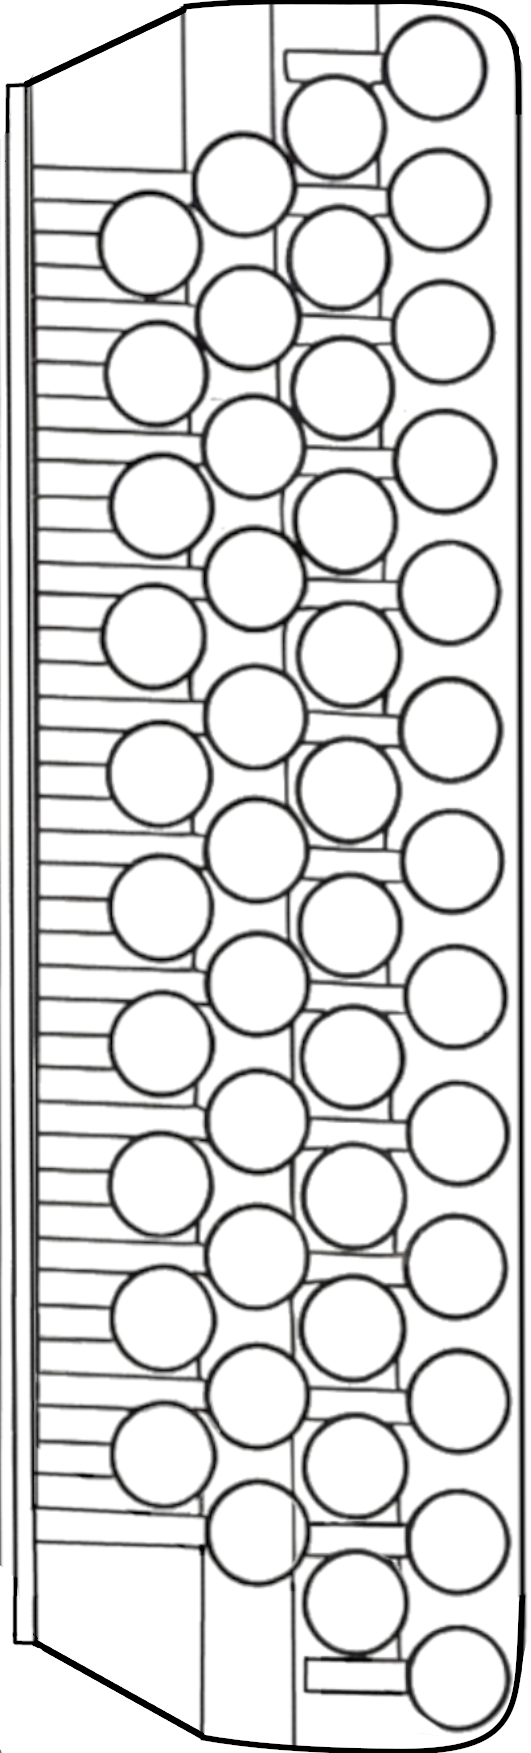
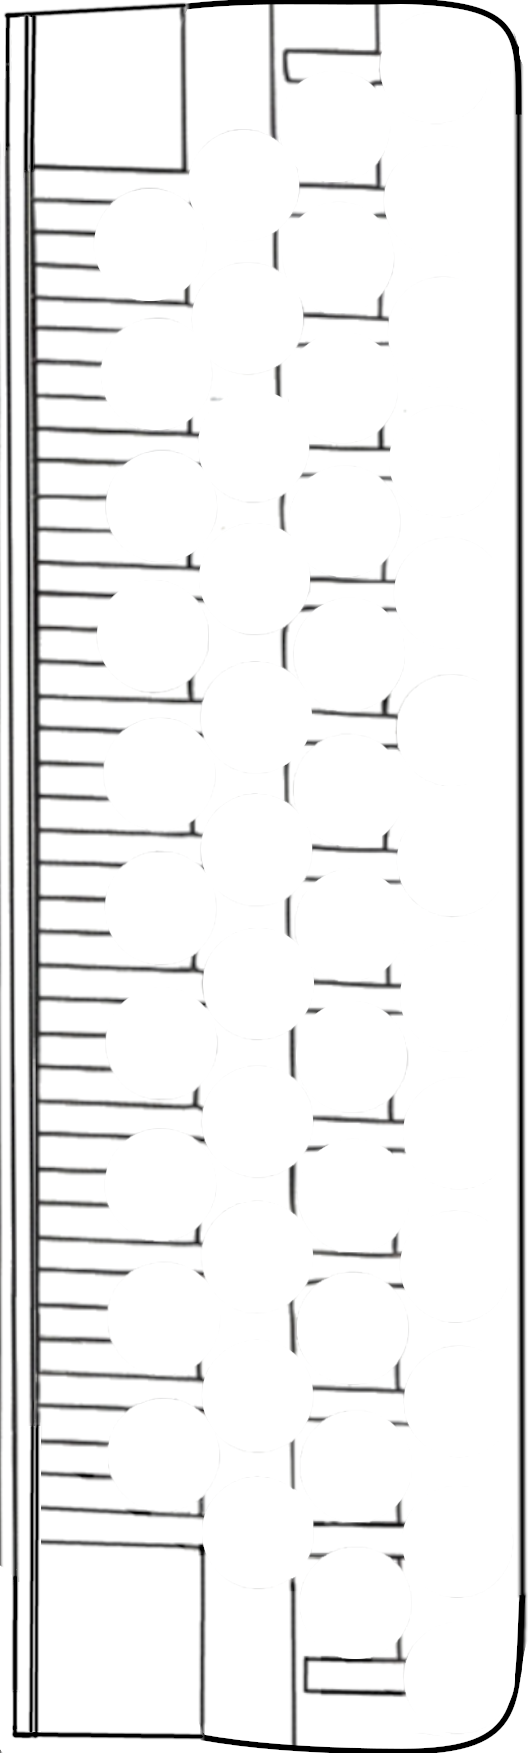
perf(ui): optimize scrubbing performance with note caching and improve visual styling
- Add scrubbing note cache to eliminate redundant fingering calculations
- Implement dynamic shadow system for Gleichton and active button states
- Simplify ring effects to background fills for better performance
- Improve fingering override propagation with contextual matching
- Update z-index hierarchy for better visual layering
- Add workspace task automation configuration

diff --git a/components/AccordionButton.tsx b/components/AccordionButton.tsx
@@ -67,27 +67,22 @@ const AccordionButtonBase: React.FC<Props> = ({
   const pullData = parseLabel(pullNote.label);
 
   // --- Styles ---
-  const containerStyle = "rounded-full overflow-hidden shadow-sm transition-all duration-75 select-none absolute touch-none flex flex-col aspect-square pointer-events-auto";
+  const containerStyle = "rounded-full overflow-hidden transition-all duration-75 select-none absolute touch-none flex flex-col aspect-square pointer-events-auto";
   const cursorClass = isEditing ? "cursor-move" : "cursor-pointer";
   
-  // Gleichton: Double border effect
-  const borderClass = (isEditing && isSelected) 
-    ? "ring-2 ring-blue-500 z-30" 
-    : isGleichton
-      ? "border-4 border-double border-[#b0a890] hover:border-[#8c8272]" // Double border for Gleichton
-      : "border border-[#b0a890] hover:border-[#8c8272]";
+  // Thicker, darker border for all buttons
+  const borderClass = (isEditing && isSelected)
+    ? "ring-2 ring-blue-500 z-30"
+    : "border-[2px] border-[#222] hover:border-black";
 
   const markedClass = (!isEditing && isMarked) ? 'ring-2 ring-red-400/50 ring-offset-1 ring-offset-transparent' : '';
 
   // --- Contrast System: Backgrounds ---
-  // Active Direction = Beige, Inactive = White.
-  // Gleichton gets a slightly deeper tint (#E5DDBA) to distinguish it.
   const activeBeige = isGleichton ? '#E5DDBA' : '#F8FAEB';
   const bgPush = direction === Direction.PUSH ? activeBeige : '#FFFFFF';
   const bgPull = direction === Direction.PULL ? activeBeige : '#FFFFFF';
 
   // --- Contrast System: Typography ---
-  // Active Direction = Larger + Bold, Inactive = Smaller + Normal
   const getTextClass = (isHalfActive: boolean) => {
     const base = "w-full h-full flex justify-center items-center leading-tight transition-all duration-200 ";
     if (isHalfActive) {
@@ -96,34 +91,50 @@ const AccordionButtonBase: React.FC<Props> = ({
     return base + (isBass ? "text-[0.35rem] font-normal text-gray-300" : "text-[0.4rem] font-normal text-gray-300");
   };
 
-  // --- Pitch-Based Rings ---
-  const getRingStyle = (note: NoteDefinition, isAlt: boolean) => {
+  // --- Pitch-Based Fills (Background Only) ---
+  const getFillStyle = (note: NoteDefinition, isAlt: boolean) => {
     const color = getNoteColor(note.midi, note.type as any);
     if (isAlt) {
-        // Alternative: Dull/Transparent ring
-        return {
-            boxShadow: `inset 0 0 0 3px ${color}40`, // 40 = 25% opacity
-            backgroundColor: `${color}15` // Very faint background tint
-        };
+        return { backgroundColor: `${color}15` }; // Very faint background
     }
-    // Active: Bright solid ring
-    return {
-        boxShadow: `inset 0 0 0 3px ${color}`,
-        backgroundColor: `${color}33` // 20% opacity fill
-    };
+    return { backgroundColor: `${color}33` }; // 20% opacity fill
   };
 
   const isPushActive = isActive && direction === Direction.PUSH;
   const isPullActive = isActive && direction === Direction.PULL;
   
-  // Determine Ring Styles
-  const pushRingStyle = (isPushActive || (isAlternative && direction === Direction.PUSH)) 
-    ? getRingStyle(pushNote, isAlternative!) 
+  const pushFillStyle = (isPushActive || (isAlternative && direction === Direction.PUSH))
+    ? getFillStyle(pushNote, isAlternative!)
     : {};
     
-  const pullRingStyle = (isPullActive || (isAlternative && direction === Direction.PULL)) 
-    ? getRingStyle(pullNote, isAlternative!) 
+  const pullFillStyle = (isPullActive || (isAlternative && direction === Direction.PULL))
+    ? getFillStyle(pullNote, isAlternative!)
     : {};
+
+  // --- Dynamic Outer Shadows (Gleichton & Active Rings) ---
+  const shadows: string[] = [];
+  
+  // 1. Gleichton: Double Outer Edge (White Gap + Black Ring)
+  if (isGleichton && !isEditing) {
+      shadows.push("0 0 0 1px white");
+      shadows.push("0 0 0 3px #222");
+  }
+
+  // 2. Active/Alt Ring (Outermost)
+  if (!isEditing && (isActive || isAlternative)) {
+      const note = direction === Direction.PUSH ? pushNote : pullNote;
+      const color = getNoteColor(note.midi, note.type as any);
+      // Ensure ring is outside the Gleichton double-border if present
+      const spread = isGleichton ? 6 : 3;
+      const colorStr = isAlternative ? `${color}66` : color;
+      shadows.push(`0 0 0 ${spread}px ${colorStr}`);
+  }
+
+  const combinedStyle = {
+      ...style,
+      backgroundColor: 'white',
+      boxShadow: shadows.length > 0 ? shadows.join(', ') : undefined
+  };
 
   // --- 1. Tooltip Delay Logic ---
   // Only show tooltip if the note has been active for >100ms.
@@ -259,7 +270,7 @@ const AccordionButtonBase: React.FC<Props> = ({
       <div
         ref={containerRef}
         className={`${containerStyle} ${cursorClass} ${borderClass} ${markedClass}`}
-        style={{ ...style, backgroundColor: 'white' }} // Ensure white base
+        style={combinedStyle}
         onMouseDown={handleMouseDown}
         onMouseMove={handleMouseMove}
         onMouseUp={handleStop}
@@ -273,9 +284,9 @@ const AccordionButtonBase: React.FC<Props> = ({
         {/* Top Half (Push) */}
         <div
           className="flex-1 w-full relative rounded-t-full pointer-events-none border-b border-[#d1cbb8] transition-colors duration-200"
-          style={{ backgroundColor: bgPush, ...pushRingStyle }}
+          style={{ backgroundColor: bgPush, ...pushFillStyle }}
         >
-          <div className={`${getTextClass(direction === Direction.PUSH)} items-end pb-[1px] text-black`}>
+          <div className={`${getTextClass(direction === Direction.PUSH)} items-end translate-y-[3px] text-black`}>
             {pushData.midi}
           </div>
         </div>
@@ -283,7 +294,7 @@ const AccordionButtonBase: React.FC<Props> = ({
         {/* Bottom Half (Pull) */}
         <div
           className="flex-1 w-full relative rounded-b-full pointer-events-none transition-colors duration-200"
-          style={{ backgroundColor: bgPull, ...pullRingStyle }}
+          style={{ backgroundColor: bgPull, ...pullFillStyle }}
         >
           <div className={`${getTextClass(direction === Direction.PULL)} items-start pt-[1px] text-black`}>
             {pullData.midi}

diff --git a/hooks/useMidiPlayer.ts b/hooks/useMidiPlayer.ts
@@ -51,6 +51,7 @@ export const useMidiPlayer = (audioController: any) => {
   const octaveShiftRef = useRef(0);
   const semitoneShiftRef = useRef(0);
   const activeScrubbingNotes = useRef<Set<string>>(new Set());
+  const scrubbingNoteCache = useRef<Map<string, string>>(new Map());
 
   useEffect(() => { fingeringOverridesRef.current = fingeringOverrides; }, [fingeringOverrides]);
   useEffect(() => {
@@ -195,6 +196,7 @@ export const useMidiPlayer = (audioController: any) => {
 
     activeMidiMapping.current.clear();
     activeScrubbingNotes.current.clear();
+    scrubbingNoteCache.current.clear();
     audioController.stopAllNotes();
   };
 
@@ -211,6 +213,7 @@ export const useMidiPlayer = (audioController: any) => {
       
       activeScrubbingNotes.current.forEach(id => audioController.handleNoteStop(id));
       activeScrubbingNotes.current.clear();
+      scrubbingNoteCache.current.clear();
 
       if (activeMidiMapping.current.size === 0) {
          // Restore active notes logic omitted for brevity, but logic is similar to original
@@ -342,6 +345,7 @@ export const useMidiPlayer = (audioController: any) => {
         semitoneShift: semitoneShiftRef.current,
         fingeringOverrides: fingeringOverridesRef.current,
         activeScrubbingNotes: activeScrubbingNotes.current,
+        scrubbingNoteCache: scrubbingNoteCache.current,
         audioController,
         isScrubbingSoundEnabled,
         currentDirection: directionRef.current,
@@ -356,27 +360,38 @@ export const useMidiPlayer = (audioController: any) => {
     const newOverrides = { ...fingeringOverrides };
     const newFlashing = new Set<string>();
     
+    // 1. Apply to target
     newOverrides[targetKey] = btnId;
     newFlashing.add(targetKey);
 
-    // Propagation logic simplified for brevity but functionally identical
-    const startIndex = allNotes.findIndex(n => n.midi === midi && Math.abs(n.time - time) < 0.001 && n.channel === channel);
-    if (startIndex !== -1) {
-        let currentTarget = allNotes[startIndex];
-        for (let i = startIndex + 1; i < allNotes.length; i++) {
-            const nextNote = allNotes[i];
-            if (nextNote.channel !== channel) continue;
-            if (nextNote.midi === midi) {
-                const nextKey = getNoteKey(nextNote.midi, nextNote.time, nextNote.channel);
-                newOverrides[nextKey] = btnId;
-                newFlashing.add(nextKey);
-                currentTarget = nextNote;
-            } else {
-                if (nextNote.time < (currentTarget.time + currentTarget.duration - 0.05)) continue;
-                break;
+    // 2. Contextual Propagation
+    const CONTEXT_WINDOW = 0.05;
+    const targetNote = allNotes.find(n => n.midi === midi && Math.abs(n.time - time) < 0.001 && n.channel === channel);
+    
+    if (targetNote) {
+        const contextNotes = allNotes.filter(n =>
+            n.channel === channel &&
+            Math.abs(n.time - targetNote.time) < CONTEXT_WINDOW
+        );
+        const contextSignature = contextNotes.map(n => n.midi).sort((a, b) => a - b).join(',');
+
+        allNotes.forEach(n => {
+            if (n.channel === channel && n.midi === midi) {
+                const localContext = allNotes.filter(other =>
+                    other.channel === channel &&
+                    Math.abs(other.time - n.time) < CONTEXT_WINDOW
+                );
+                const localSignature = localContext.map(c => c.midi).sort((a, b) => a - b).join(',');
+
+                if (localSignature === contextSignature) {
+                    const key = getNoteKey(n.midi, n.time, n.channel);
+                    newOverrides[key] = btnId;
+                    newFlashing.add(key);
+                }
             }
-        }
+        });
     }
+
     setFingeringOverrides(newOverrides);
     fingeringOverridesRef.current = newOverrides;
     setFlashingNotes(newFlashing);

diff --git a/hooks/midi/utils/scrubber.ts b/hooks/midi/utils/scrubber.ts
@@ -13,6 +13,7 @@ interface ScrubberContext {
   semitoneShift: number;
   fingeringOverrides: Record<string, string>;
   activeScrubbingNotes: Set<string>;
+  scrubbingNoteCache: Map<string, string>;
   audioController: any;
   isScrubbingSoundEnabled: boolean;
   currentDirection: Direction;
@@ -20,10 +21,10 @@ interface ScrubberContext {
 }
 
 export const syncScrubbingNotes = (ctx: ScrubberContext): Set<string> => {
-  const { 
-    time, allNotes, directionEvents, channelModes, octaveShift, semitoneShift, 
-    fingeringOverrides, activeScrubbingNotes, audioController, 
-    isScrubbingSoundEnabled, currentDirection, setDirection 
+  const {
+    time, allNotes, directionEvents, channelModes, octaveShift, semitoneShift,
+    fingeringOverrides, activeScrubbingNotes, scrubbingNoteCache, audioController,
+    isScrubbingSoundEnabled, currentDirection, setDirection
   } = ctx;
 
   // 1. Determine Direction
@@ -56,6 +57,7 @@ export const syncScrubbingNotes = (ctx: ScrubberContext): Set<string> => {
   // 2. Gather Notes
   const notesToSolve: { note: MidiNote, candidates: string[], allCandidates: string[], shiftedMidi: number }[] = [];
   const chordNotes: MidiNote[] = [];
+  const activeNoteKeys = new Set<string>();
 
   allNotes.forEach(note => {
     if (time >= note.time && time < note.time + note.duration - 0.03) {
@@ -81,16 +83,28 @@ export const syncScrubbingNotes = (ctx: ScrubberContext): Set<string> => {
       if (candidates.length === 0) return;
 
       const key = getNoteKey(note.midi, note.time, note.channel);
+      activeNoteKeys.add(key);
+      
       const overrideId = fingeringOverrides[key];
+      const cachedId = scrubbingNoteCache.get(key);
 
       let validIds = candidates;
+      
       if (overrideId && candidates.includes(overrideId)) {
           validIds = [overrideId];
+      } else if (cachedId && candidates.includes(cachedId)) {
+          validIds = [cachedId];
       }
 
       notesToSolve.push({ note, candidates: validIds, allCandidates: candidates, shiftedMidi });
     }
   });
+
+  for (const key of scrubbingNoteCache.keys()) {
+      if (!activeNoteKeys.has(key)) {
+          scrubbingNoteCache.delete(key);
+      }
+  }
 
   // 3. Group by Time & Sort
   const groups = new Map<number, typeof notesToSolve>();
@@ -153,6 +167,11 @@ export const syncScrubbingNotes = (ctx: ScrubberContext): Set<string> => {
 
       search(0, []);
       finalAssignment.push(...bestGroupAssign);
+      
+      groupItems.forEach((item, i) => {
+          const key = getNoteKey(item.note.midi, item.note.time, item.note.channel);
+          scrubbingNoteCache.set(key, bestGroupAssign[i]);
+      });
   });
 
   // 4b. Solve Chords

diff --git a/components/MainStage.tsx b/components/MainStage.tsx
@@ -94,7 +94,7 @@ export const MainStage: React.FC<MainStageProps> = ({
   });
 
   // --- 2. Coordinate Transformation Helper ---
-  const transformStyle = (id: string, globalLeft: number, globalTop: number, size: number, panel: 'left' | 'right') => {
+  const transformStyle = (id: string, globalLeft: number, globalTop: number, size: number, panel: 'left' | 'right', isGleichton: boolean) => {
     let localLeft = 0;
     let localSize = 0;
 
@@ -115,7 +115,7 @@ export const MainStage: React.FC<MainStageProps> = ({
       width: `${localSize}%`,
       position: 'absolute' as const,
       transform: 'translate(-50%, -50%)',
-      zIndex: isEditing && (dragTarget === id || selectedButtonId === id) ? 50 : 10
+      zIndex: isEditing && (dragTarget === id || selectedButtonId === id) ? 50 : (isGleichton ? 5 : 10)
     };
   };
 
@@ -134,10 +134,11 @@ export const MainStage: React.FC<MainStageProps> = ({
     // Determine Panel
     const isBassPanel = id.startsWith('bass');
     const panel = isBassPanel ? 'left' : 'right';
-    const style = transformStyle(id, pos.left, pos.top, size, panel);
-
+    
     const GLEICHTONE_IDS = new Set(['treble-0-4', 'treble-1-5', 'treble-2-6', 'treble-3-6']);
     const isGleichton = GLEICHTONE_IDS.has(id);
+
+    const style = transformStyle(id, pos.left, pos.top, size, panel, isGleichton);
 
     return (
       <AccordionButton
